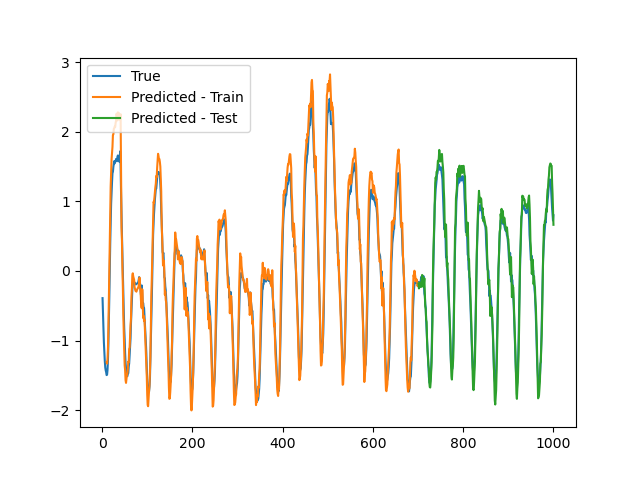
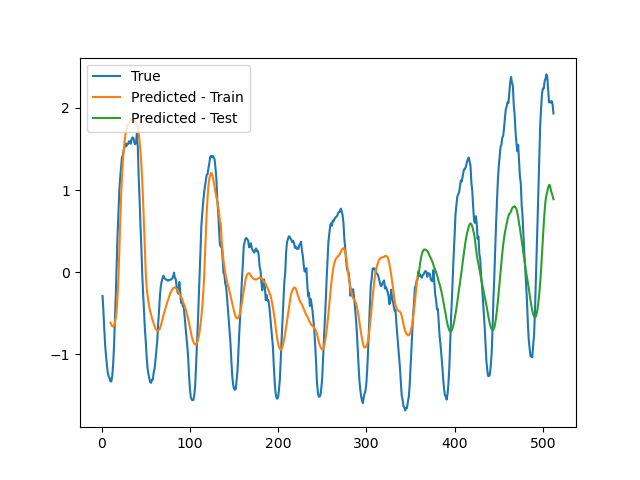
update drnn 架构

diff --git a/iseq2seq.py b/iseq2seq.py
@@ -1,119 +1,164 @@
+import torch.nn as nn
 import torch
-from torch import nn
+from sklearn.metrics.mape import mean_absolute_percentage_error
+from torch.nn import functional as F
+from custom_types import *
+from train import prep_train_data,adjust_learning_rate
+from torch import optim
+import utils
+import json
+from constants import device
 from torch.autograd import Variable
-from torch.nn import functional as tf
-
-
-def init_hidden(x, hidden_size: int):
-    """
-    Train the initial value of the hidden state:
-    https://r2rt.com/non-zero-initial-states-for-recurrent-neural-networks.html
-    """
-    return Variable(torch.zeros(1, x.size(0), hidden_size))
-
-
+import matplotlib.pyplot as plt
+from utils import numpy_to_tvar
+from sklearn.metrics import mean_squared_error,mean_absolute_error
+logger = utils.setup_log()
+logger.info(f"Using computation device: {device}")
 class Encoder(nn.Module):
+    def __init__(self, input_dim, emb_dim, enc_hid_dim, dec_hid_dim, dropout):
+        super().__init__()
+        #self.embedding = nn.Embedding(input_dim, emb_dim)
+        self.rnn = nn.GRU(emb_dim, enc_hid_dim, bidirectional = True)
+        self.fc = nn.Linear(enc_hid_dim * 2, dec_hid_dim)
+        self.dropout = nn.Dropout(dropout)
+        
+    def forward(self, src): 
+        '''
+        src = [src_len, batch_size]
+        '''
+        # src = src.transpose(0, 1) # src = [batch_size, src_len]
+        # embedded = self.dropout(self.embedding(src)).transpose(0, 1) # embedded = [src_len, batch_size, emb_dim]
+        
+        # enc_output = [src_len, batch_size, hid_dim * num_directions]
+        # enc_hidden = [n_layers * num_directions, batch_size, hid_dim]
+        enc_output, enc_hidden = self.rnn(src) # if h_0 is not give, it will be set 0 acquiescently
 
-    def __init__(self, input_size: int, hidden_size: int, T: int):
-        """
-        input size: number of underlying factors (81)
-        T: number of time steps (10)
-        hidden_size: dimension of the hidden state
-        """
-        super(Encoder, self).__init__()
-        self.input_size = input_size
-        self.hidden_size = hidden_size
-        self.T = T
+        # enc_hidden is stacked [forward_1, backward_1, forward_2, backward_2, ...]
+        # enc_output are always from the last layer
+        
+        # enc_hidden [-2, :, : ] is the last of the forwards RNN 
+        # enc_hidden [-1, :, : ] is the last of the backwards RNN
+        
+        # initial decoder hidden is final hidden state of the forwards and backwards 
+        # encoder RNNs fed through a linear layer
+        # s = [batch_size, dec_hid_dim]
+        s = torch.tanh(self.fc(torch.cat((enc_hidden[-2,:,:], enc_hidden[-1,:,:]), dim = 1)))
+        
+        return enc_output, s
 
-        self.lstm_layer = nn.GRU(input_size=input_size, hidden_size=hidden_size, num_layers=1)
-        self.attn_linear = nn.Linear(in_features=2 * hidden_size + T - 1, out_features=1)
 
-    def forward(self, input_data):
-        # input_data: (batch_size, T - 1, input_size)
-        input_weighted = Variable(torch.zeros(input_data.size(0), self.T - 1, self.input_size))
-        input_encoded = Variable(torch.zeros(input_data.size(0), self.T - 1, self.hidden_size))
-        # hidden, cell: initial states with dimension hidden_size
-        hidden = init_hidden(input_data, self.hidden_size)  # 1 * batch_size * hidden_size
-        cell = init_hidden(input_data, self.hidden_size)
 
-      # (batch_size, input_size)
-
-        for t in range(self.T - 1):
-            # Eqn. 8: concatenate the hidden states with each predictor
-            # TODO permute转化tensor维度 encoder的输入是隐藏状态和每一个cell
-            #  repeat表示对张量进行扩充，在这里是对通道数(行)进扩充
-            #  cat是对tensor进行拼接
-            x = torch.cat((hidden.repeat(self.input_size, 1, 1).permute(1, 0, 2),
-                     #   cell.repeat(self.input_size, 1, 1).permute(1, 0, 2),
-                        input_data.permute(0, 2, 1)), dim=2)  # batch_size * input_size * (2*hidden_size + T - 1)
-            # Eqn. 8: Get attention weights
-            x = self.attn_linear(x.view(-1, self.hidden_size * 2 + self.T - 1))  # (batch_size * input_size) * 1
-            # Eqn. 9: Softmax the attention weights
-            attn_weights = tf.softmax(x.view(-1, self.input_size), dim=1)
-
-            # Eqn. 10: LSTM 逐元素相乘
-            weighted_input = torch.mul(attn_weights, input_data[:, t, :])  # (batch_size, input_size)
-            # Fix the warning about non-contiguous memory
-            # see https://discuss.pytorch.org/t/dataparallel-issue-with-flatten-parameter/8282
-            self.lstm_layer.flatten_parameters()
-            _, lstm_states = self.lstm_layer(weighted_input.unsqueeze(0), (hidden))
-            hidden = lstm_states[0]
-            #cell = lstm_states[1]
-            # Save output
-            input_weighted[:, t, :] = weighted_input
-            input_encoded[:, t, :] = hidden
-
-        print('input_encoded shape',input_encoded.shape) # 128 9 64
-        return input_weighted, input_encoded
+class Attention(nn.Module):
+    def __init__(self, enc_hid_dim, dec_hid_dim):
+        super().__init__()
+        self.attn = nn.Linear((enc_hid_dim * 2) + dec_hid_dim, dec_hid_dim, bias=False)
+        self.v = nn.Linear(dec_hid_dim, 1, bias = False)
+        
+    def forward(self, s, enc_output):
+        
+         # s = [batch_size, dec_hid_dim]
+        # enc_output = [src_len, batch_size, enc_hid_dim * 2]
+        
+        batch_size = enc_output.shape[1]
+        src_len = enc_output.shape[0]
+        
+        # repeat decoder hidden state src_len times
+        # s = [batch_size, src_len, dec_hid_dim]
+        # enc_output = [batch_size, src_len, enc_hid_dim * 2]
+        s = s.unsqueeze(1).repeat(1, src_len, 1)
+        enc_output = enc_output.transpose(0, 1)
+        
+        # energy = [batch_size, src_len, dec_hid_dim]
+        energy = torch.tanh(self.attn(torch.cat((s, enc_output), dim = 2)))
+        
+        # attention = [batch_size, src_len]
+        attention = self.v(energy).squeeze(2)
+        
+        return F.softmax(attention, dim=1)
+        
 
 class Decoder(nn.Module):
+    def __init__(self, output_dim, emb_dim, enc_hid_dim, dec_hid_dim, dropout, attention):
+        super().__init__()
+        self.output_dim = output_dim
+        self.attention = attention
+        #self.embedding = nn.Embedding(output_dim, emb_dim)
+        self.rnn = nn.GRU((enc_hid_dim * 2) + emb_dim, dec_hid_dim)
+        self.fc_out = nn.Linear((enc_hid_dim * 2) + dec_hid_dim + emb_dim, output_dim)
+        self.dropout = nn.Dropout(dropout)
+        
+    def forward(self, dec_input, s, enc_output):
+             
+        # dec_input = [batch_size]
+        # s = [batch_size, dec_hid_dim]
+        # enc_output = [src_len, batch_size, enc_hid_dim * 2]
+        
+        dec_input = dec_input.unsqueeze(1) # dec_input = [batch_size, 1]
+        
+        #embedded = self.dropout(self.embedding(dec_input)).transpose(0, 1) # embedded = [1, batch_size, emb_dim]
+        
+        # a = [batch_size, 1, src_len]  
+        a = self.attention(s, enc_output).unsqueeze(1)
+        
+        # enc_output = [batch_size, src_len, enc_hid_dim * 2]
+        enc_output = enc_output.transpose(0, 1)
 
-    def __init__(self, encoder_hidden_size: int, decoder_hidden_size: int, T: int, out_feats=1):
-        super(Decoder, self).__init__()
+        # c = [1, batch_size, enc_hid_dim * 2]
+        c = torch.bmm(a, enc_output).transpose(0, 1)
 
-        self.T = T
-        self.encoder_hidden_size = encoder_hidden_size
-        self.decoder_hidden_size = decoder_hidden_size
+        # rnn_input = [1, batch_size, (enc_hid_dim * 2) + emb_dim]
+        # rnn_input = torch.cat((embedded, c), dim = 2)
+        rnn_input = torch.cat((c), dim = 2)  
+        # dec_output = [src_len(=1), batch_size, dec_hid_dim]
+        # dec_hidden = [n_layers * num_directions, batch_size, dec_hid_dim]
+        dec_output, dec_hidden = self.rnn(rnn_input, s.unsqueeze(0))
+        
+        # embedded = [batch_size, emb_dim]
+        # dec_output = [batch_size, dec_hid_dim]
+        # c = [batch_size, enc_hid_dim * 2]
+        #embedded = embedded.squeeze(0)
+        dec_output = dec_output.squeeze(0)
+        c = c.squeeze(0)
+        
+        # pred = [batch_size, output_dim]
+        pred = self.fc_out(torch.cat((dec_output, c), dim = 1))
+        
+        return pred, dec_hidden.squeeze(0)
 
-        self.attn_layer = nn.Sequential(nn.Linear(2 * decoder_hidden_size + encoder_hidden_size,
-                                                  encoder_hidden_size),
-                                        nn.Tanh(),
-                                        nn.Linear(encoder_hidden_size, 1))
-        self.lstm_layer = nn.LSTM(input_size=out_feats, hidden_size=decoder_hidden_size)
-        self.fc = nn.Linear(encoder_hidden_size + out_feats, out_feats)
-        self.fc_final = nn.Linear(decoder_hidden_size + encoder_hidden_size, out_feats)
-        self.fc.weight.data.normal_()
 
-    def forward(self, input_encoded, y_history):
-        # input_encoded: (batch_size, T - 1, encoder_hidden_size)
-        # y_history: (batch_size, (T-1))
-        # Initialize hidden and cell, (1, batch_size, decoder_hidden_size)
-        hidden = init_hidden(input_encoded, self.decoder_hidden_size)
-        #cell = init_hidden(input_encoded, self.decoder_hidden_size)
-        context = Variable(torch.zeros(input_encoded.size(0), self.encoder_hidden_size))
+'''
+模型的初始化
+'''
+def seq2seq(train_data: TrainData, n_targs: int, hidden_size=64, T=10, learning_rate=0.001, batch_size=128):
+    
+    # 定义配置器 T=>滑窗长度 截取前70%的数据作为训练集
+    train_cfg = TrainConfig(
+        T, int(train_data.feats.shape[0] * 0.7), batch_size, nn.MSELoss())
+    logger.info(f"Training size: {train_cfg.train_size:d}.")
+    # 初始化网络结构
+    rnn_args = {
+        "input_size" : train_data.feats.shape[1] + 1,
+        "hidden_size" : hidden_size,
+        "num_layers" : 1,
+        "output_size" : 1,
+        "dropout" : 0,
+        "batch_first":True
+    }
+   # print ("run args: ", rnn_args)
+    rnn  = Encoder(**rnn_args).to(device)
+    with open( ('data/lstm.json'),"w") as fi: 
+        json.dump(rnn_args,fi,indent=4)
 
-        for t in range(self.T - 1):
-            # (batch_size, T, (2 * decoder_hidden_size + encoder_hidden_size))
-            x = torch.cat((hidden.repeat(self.T - 1, 1, 1).permute(1, 0, 2),
-                     #      cell.repeat(self.T - 1, 1, 1).permute(1, 0, 2),
-                           input_encoded), dim=2)
-            # Eqn. 12 & 13: softmax on the computed attention weights
-            x = tf.softmax(
-                    self.attn_layer(
-                        x.view(-1, 2 * self.decoder_hidden_size + self.encoder_hidden_size)
-                    ).view(-1, self.T - 1),
-                    dim=1)  # (batch_size, T - 1)
+    params=[p for p in rnn.parameters() if p.requires_grad]
+   # print('params: ',params)
+    rnn_optimizer = optim.Adam(
+        params=params,
+        lr=learning_rate
+    )
 
-            # Eqn. 14: compute context vector
-            context = torch.bmm(x.unsqueeze(1), input_encoded)[:, 0, :]  # (batch_size, encoder_hidden_size)
-
-            # Eqn. 15
-            y_tilde = self.fc(torch.cat((context, y_history[:, t]), dim=1))  # (batch_size, out_size)
-            # Eqn. 16: LSTM
-            self.lstm_layer.flatten_parameters()
-            _, lstm_output = self.lstm_layer(y_tilde.unsqueeze(0), (hidden))
-            hidden = lstm_output[0]  # 1 * batch_size * decoder_hidden_size
-        #    cell = lstm_output[1]  # 1 * batch_size * decoder_hidden_size
-
-        # Eqn. 22: final output
-        return self.fc_final(torch.cat((hidden[0], context), dim=1))
+    # 返回的网络结构
+    rnn_net = RnnNet(
+        rnn,rnn_optimizer
+    )
+    return train_cfg, rnn_net
+    

diff --git a/lstm.py b/lstm.py
@@ -127,9 +127,11 @@ def rnn_train_iteration(t_net: RnnNet, loss_func: typing.Callable, X, y_history,
     data1 = torch.from_numpy(input_data).to(torch.float32)
     #print('data1 shape',data1.shape)
     pred = t_net.rnn(Variable(data1))
+    print('pred shape: ',pred.shape)
     pred = pred[0, :, :]
     #print('pred shape: ',pred.shape)
     label = torch.from_numpy(y_target).to(torch.float32).unsqueeze(1)
+    print('label shape： ',label.shape)
     loss = loss_func(pred, label)
     t_net.rnn_optimizer.zero_grad()
     loss.backward()
@@ -219,7 +221,7 @@ def train_rnn(net: RnnNet, train_data: TrainData, t_cfg: TrainConfig, n_epochs, 
             # if (j / t_cfg.batch_size) % 50 == 0:
             #    self.logger.info("Epoch %d, Batch %d: loss = %3.3f.", i, j / t_cfg.batch_size, loss)
             n_iter += 1
-            print(loss)
+            #print(loss)
             #adjust_learning_rate(net, n_iter)
 
         epoch_losses[e_i] = np.mean(
@@ -255,7 +257,7 @@ def train_rnn(net: RnnNet, train_data: TrainData, t_cfg: TrainConfig, n_epochs, 
             # todo 计算三者最后的MSE MAE MAPE
             y_test_list = list(y_test_pred)
             y_real = list(train_data.targs)[t_cfg.T + len(y_train_pred) - 1:len(train_data.targs)]
-            print(len(y_real), len(y_test_list))
+            #print(len(y_real), len(y_test_list))
 
             print('rmse: ', np.sqrt(mean_squared_error(y_real, y_test_list)))
             print('mae: ', mean_absolute_error(y_real, y_test_list))

diff --git a/main_debug.py b/main_debug.py
@@ -1,4 +1,6 @@
 # %%
+import numpy as np
+
 from lstm import *
 from train import *
 from sklearn.preprocessing import StandardScaler,MinMaxScaler
@@ -10,7 +12,7 @@ logger.info(f"Using computation device: {device}")
 '''
 
 save_plots = True
-debug = True
+debug = False
 datasets = [
     "data/Austrilia_dianli.xlsx",
     "data/UCI_dianli.xlsx"
@@ -20,7 +22,7 @@ datasets = [
 读取数据集:澳大利亚数据集
 '''
 def read_dataset1(dataset,debug=True):
-    raw_data = pd.read_excel((dataset), nrows=1000 if debug else None)
+    raw_data = pd.read_excel((dataset), nrows=512 if debug else None)
     logger.info(
         f"Shape of data: {raw_data.shape}.\nMissing in data: {raw_data.isnull().sum().sum()}.")
     raw_data_copy = raw_data.copy()
@@ -34,7 +36,7 @@ def read_dataset1(dataset,debug=True):
 '''
 读取数据集:联合发电厂数据集
 '''
-def read_dataset2(dataset,debug=True):
+def read_dataset2(dataset,debug=False):
     raw_data = pd.read_excel((dataset), nrows=1000 if debug else None)
     logger.info(
         f"Shape of data: {raw_data.shape}.\nMissing in data: {raw_data.isnull().sum().sum()}.")
@@ -50,6 +52,7 @@ def read_dataset2(dataset,debug=True):
 def prepare_data(dat, col_names):
     scale = StandardScaler().fit(dat)
     proc_dat = scale.transform(dat)
+    #proc_dat = np.array(dat)
     # 生成同等列长的mask数组
     mask = np.ones(proc_dat.shape[1], dtype=bool)
     dat_cols = list(dat.columns)
